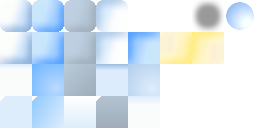
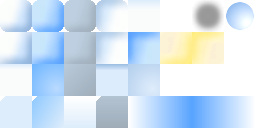
- L'adorner LookPastel sait dessiner PaintProgressIndicator dans tous les modes.
git-svn-id: https://svn.opac.ch/svn/cr/branches/vs2005/Epsitec.Cresus@8412 787ff09c-d2b5-7842-b444-8dd0a418631d

Changed region(s): [[0.5312, 0.75, 0.9688, 1.0], [0.5, 0.0, 0.625, 0.0312], [0.5, 0.75, 0.5312, 0.7812]]

diff --git a/Epsitec.Cresus/Common.Widgets/Adorners/LookPastel.cs b/Epsitec.Cresus/Common.Widgets/Adorners/LookPastel.cs
@@ -966,6 +966,61 @@ namespace Epsitec.Common.Widgets.Adorners
 												ProgressIndicatorStyle style,
 												double progress)
 		{
+			this.PaintImageButton(graphics, rect, 3);
+
+			double radius = this.RetRadius(rect);
+			Drawing.Path path = this.PathRoundRectangle(rect, radius);
+			graphics.Rasterizer.AddOutline(path, 1);
+			graphics.RenderSolid(this.colorBorder);
+
+			Drawing.Rectangle rInside = rect;
+			rInside.Deflate(3);
+			if (style == ProgressIndicatorStyle.UnknownDuration)
+			{
+				double x = rInside.Width*progress;
+				double w = rInside.Width*0.4;
+
+				this.PaintProgressUnknow(graphics, rInside, w, x-w);
+				this.PaintProgressUnknow(graphics, rInside, w, x-w+rInside.Width);
+			}
+			else
+			{
+				if (progress != 0)
+				{
+					rInside.Width *= progress;
+					this.PaintImageButton(graphics, rInside, 1);
+				}
+			}
+
+			rInside = rect;
+			rInside.Deflate(3.5);
+			graphics.AddRectangle(rInside);
+			graphics.RenderSolid(this.colorBorder);
+		}
+
+		protected void PaintProgressUnknow(Drawing.Graphics graphics, Drawing.Rectangle rect, double w, double x)
+		{
+			Drawing.Rectangle fill = new Drawing.Rectangle(rect.Left+x, rect.Bottom, w, rect.Height);
+			Drawing.Rectangle icon = new Drawing.Rectangle(128, 0, 32*4, 32);
+
+			if (fill.Left < rect.Left)
+			{
+				double over = (rect.Left-fill.Left)/w;
+				icon.Left += icon.Width*over;
+				fill.Left = rect.Left;
+			}
+
+			if (fill.Right > rect.Right)
+			{
+				double over = (fill.Right-rect.Right)/w;
+				icon.Width -= icon.Width*over;
+				fill.Right = rect.Right;
+			}
+
+			if (fill.Width > 0)
+			{
+				graphics.PaintImage(this.bitmap, fill, icon);
+			}
 		}
 
 		public override void PaintGroupBox(Drawing.Graphics graphics,
@@ -1034,7 +1089,7 @@ namespace Epsitec.Common.Widgets.Adorners
 			//	Dessine la zone principale sous les onglets.
 			if ( (state&WidgetPaintState.Enabled) != 0 )
 			{
-				this.PaintImageButton(graphics, rect, 28);
+				this.PaintImageButton(graphics, rect, 5);
 			}
 			else
 			{
@@ -2038,7 +2093,7 @@ namespace Epsitec.Common.Widgets.Adorners
 			icon.Top    = 128-32*(rank/8);
 			icon.Bottom = icon.Top-32;
 
-			if ( rank == 7 || rank == 16 || rank == 18 || rank == 20 || rank == 28 )
+			if ( rank == 5 || rank == 7 || rank == 16 || rank == 18 || rank == 20 )
 			{
 				this.PaintImageButton1(graphics, rect, icon);
 			}

diff --git a/Epsitec.Cresus/Common.Dialogs.Tests/WorkInProgressDialogTest.cs b/Epsitec.Cresus/Common.Dialogs.Tests/WorkInProgressDialogTest.cs
@@ -24,7 +24,7 @@ namespace Epsitec.Common.Dialogs
 
 			Epsitec.Common.Support.Implementation.FileProvider.DefineGlobalProbingPath (string.Join (";", paths));
 			//?Epsitec.Common.Widgets.Adorners.Factory.SetActive ("LookMetal");
-			Epsitec.Common.Widgets.Adorners.Factory.SetActive ("LookFlat");
+			Epsitec.Common.Widgets.Adorners.Factory.SetActive ("LookPastel");
 			Epsitec.Common.Document.Engine.Initialize ();
 		}
 
